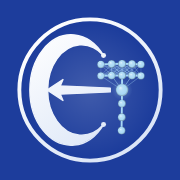
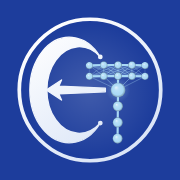
Adopt the wider T: wide crossbar and a 4-neuron stem
- Seal (all logo files, icons, share image, email logo): the crossbar's
  two fully connected rows keep their 5 neurons but are spaced wider; the
  stem has 4 larger neurons and reaches lower; the circle grows slightly
  (centre 39, radius 134) so everything stays clear of the hilal
- Hero: same proportions, still turning into the key side-on; the logo's
  perspective, with the top row slightly lower, keeps every neuron clear
  of the hilal's tips (4.2) and the ring (4.2) over the whole turn

diff --git a/src/lib/eigen-mark.ts b/src/lib/eigen-mark.ts
@@ -12,7 +12,7 @@ export type MarkVariant = 'dark' | 'light';
 const S = 100;
 const DEG = Math.PI / 180;
 const LOGO_F = 6; // perspective of the original mark, which fixes where the output neuron sits
-const F = 5.5; // the hero's perspective: a little stronger than the logo's, so the turning T shows its depth
+const F = 6; // the hero's perspective: the same as the logo's
 
 type P3 = [number, number, number];
 type Node = { p: P3; r: number };
@@ -22,20 +22,21 @@ const MOON = { R: 1, r: 0.82, d: 0.25, sx: 0.75 };
 const ARROW = { h0: 0.035, h1: 0.075, ah: 0.19, len: 0.24, back: 0.05 };
 const TIP_X = (MOON.d - MOON.r) * MOON.sx - 0.012; // arrow tip just touches the hilal
 const GAP = 0.1; // between the arrow's tail and the output neuron
-const RING = { cx: 34, r: 128, w: 7 };
+const RING = { cx: 39, r: 134, w: 7 };
 const T = {
   xs: [-2, -1, 0, 1, 2],
-  dx: 0.18,
-  rows: [0.45, 0.255],
-  stem: [0, -0.24, -0.48, -0.72],
+  dx: 0.26, // a wide crossbar: the same five neurons per row, spaced apart
+  rows: [0.42, 0.255], // the top row sits a little lower than in the logo, so it clears the hilal's tip as it turns
+  stem: [0, -0.3, -0.6, -0.9], // four stem neurons, larger than the crossbar's
   r: 0.066,
-  rOut: 0.11,
+  rStem: 0.09,
+  rOut: 0.135,
   zOut: 0.18, // depth of the stem, and of the axis the network turns about
   depth: [-0.1, 0.1], // the crossbar's two layers sit one behind the other
   back: 0.24, // a third crossbar row sits this far behind the crossbar's lower row
   teeth: [0.26, 0.14, 0.2], // how far each neuron of the back column sits behind the stem: a key's cuts
   edgeW: 0.016,
-  strokeW: 0.034,
+  strokeW: 0.04,
 };
 // The output neuron sits where the original mark placed it (x 0.9, seen in a 10° view).
 const T_CX = (() => {
@@ -75,11 +76,11 @@ const NET = (() => {
   const nodes: Node[] = [], edges: Edge[] = [];
   const add = (x: number, y: number, z: number, r: number) => { nodes.push({ p: [x, y, z], r }); return nodes.length - 1; };
   // the crossbar curves gently toward the viewer; kept shallow so its ends clear the hilal's tips and the ring as it turns
-  const bulge = (x: number) => 0.18 - 0.05 * Math.pow((x - T_CX) / 0.42, 2);
+  const bulge = (x: number) => 0.18 - 0.05 * Math.pow((x - T_CX) / (2 * T.dx + 0.06), 2);
   const xs = T.xs.map((k) => T_CX + k * T.dx);
   const [top, lower] = T.rows.map((y, li) => xs.map((x) => add(x, y, bulge(x) + T.depth[li], T.r)));
   const behind = xs.map((x) => add(x, T.rows[1], bulge(x) + T.depth[1] - T.back, T.r)); // behind the lower row
-  const stem = T.stem.map((y) => add(T_CX, y, T.zOut, y === 0 ? T.rOut : T.r)); // on the axis, so the stem never moves
+  const stem = T.stem.map((y) => add(T_CX, y, T.zOut, y === 0 ? T.rOut : T.rStem)); // on the axis, so the stem never moves
   // behind the stem, each at its own depth like the cuts of a key, starting one step below the arrow so it never
   // crosses the arrow or the hilal's tips as it turns. Side-on, the crossbar is the key's head and the stem its blade.
   const stemBack = T.stem.slice(1).map((y, i) => add(T_CX, y, T.zOut - T.teeth[i], T.r));
